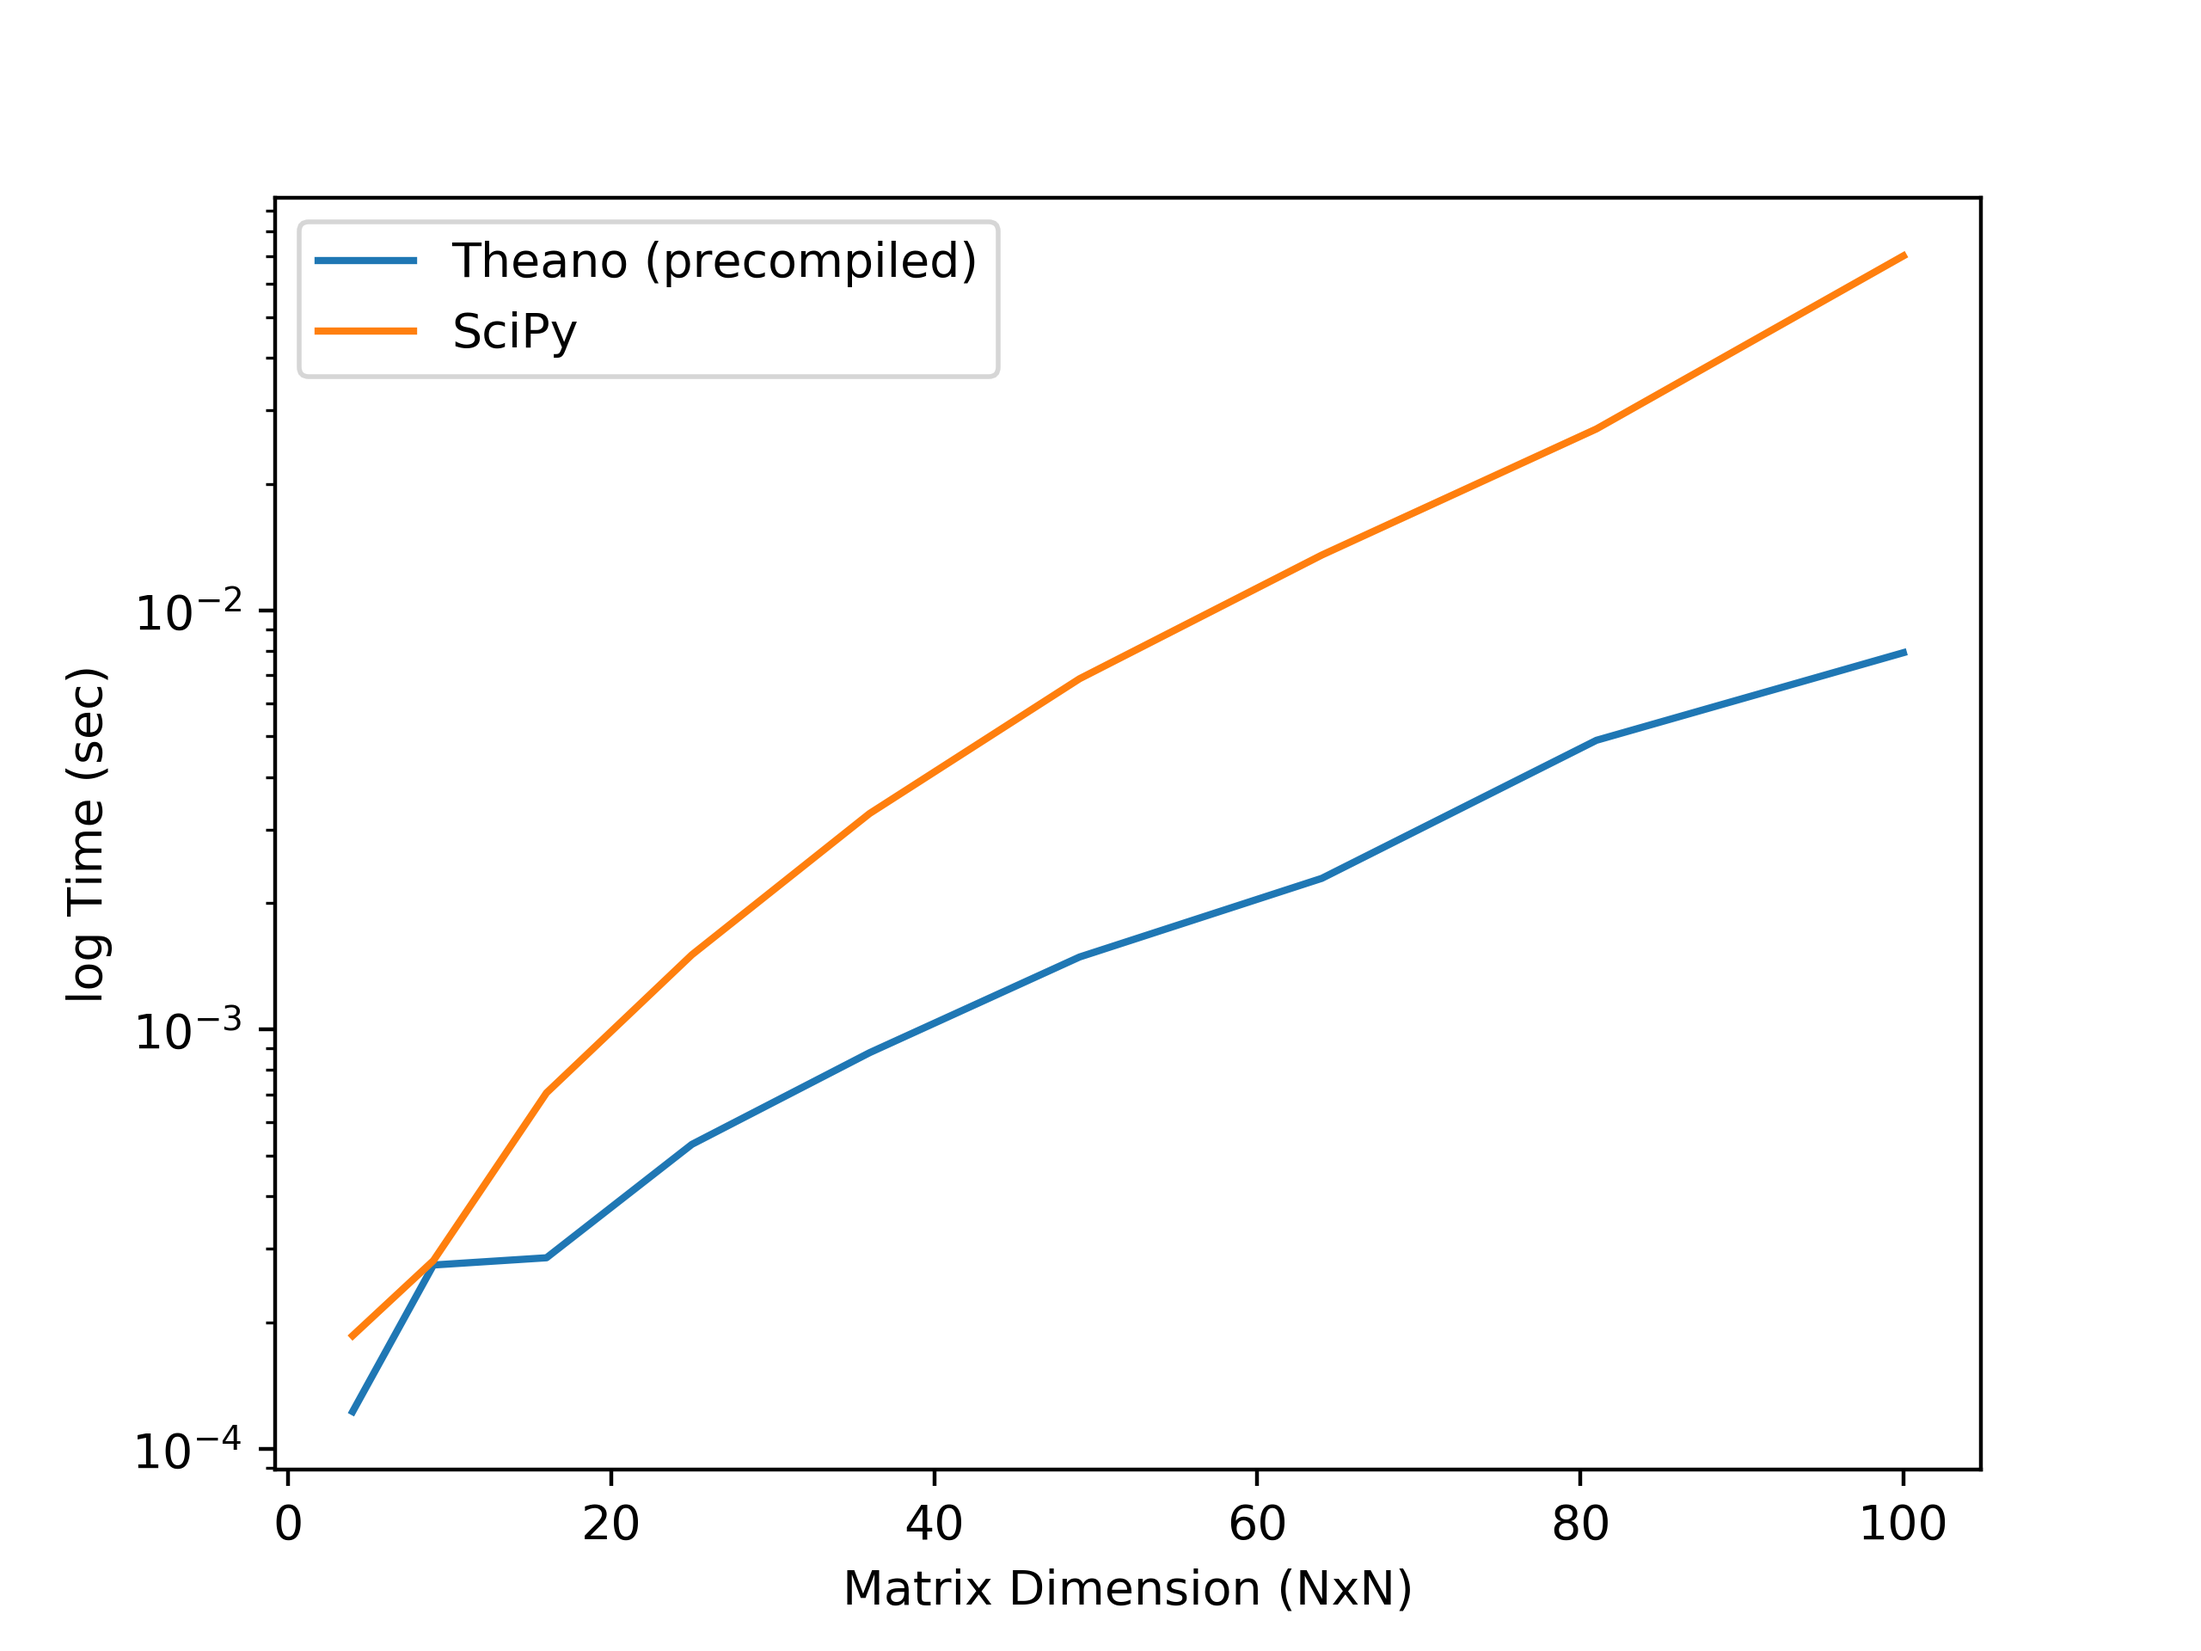
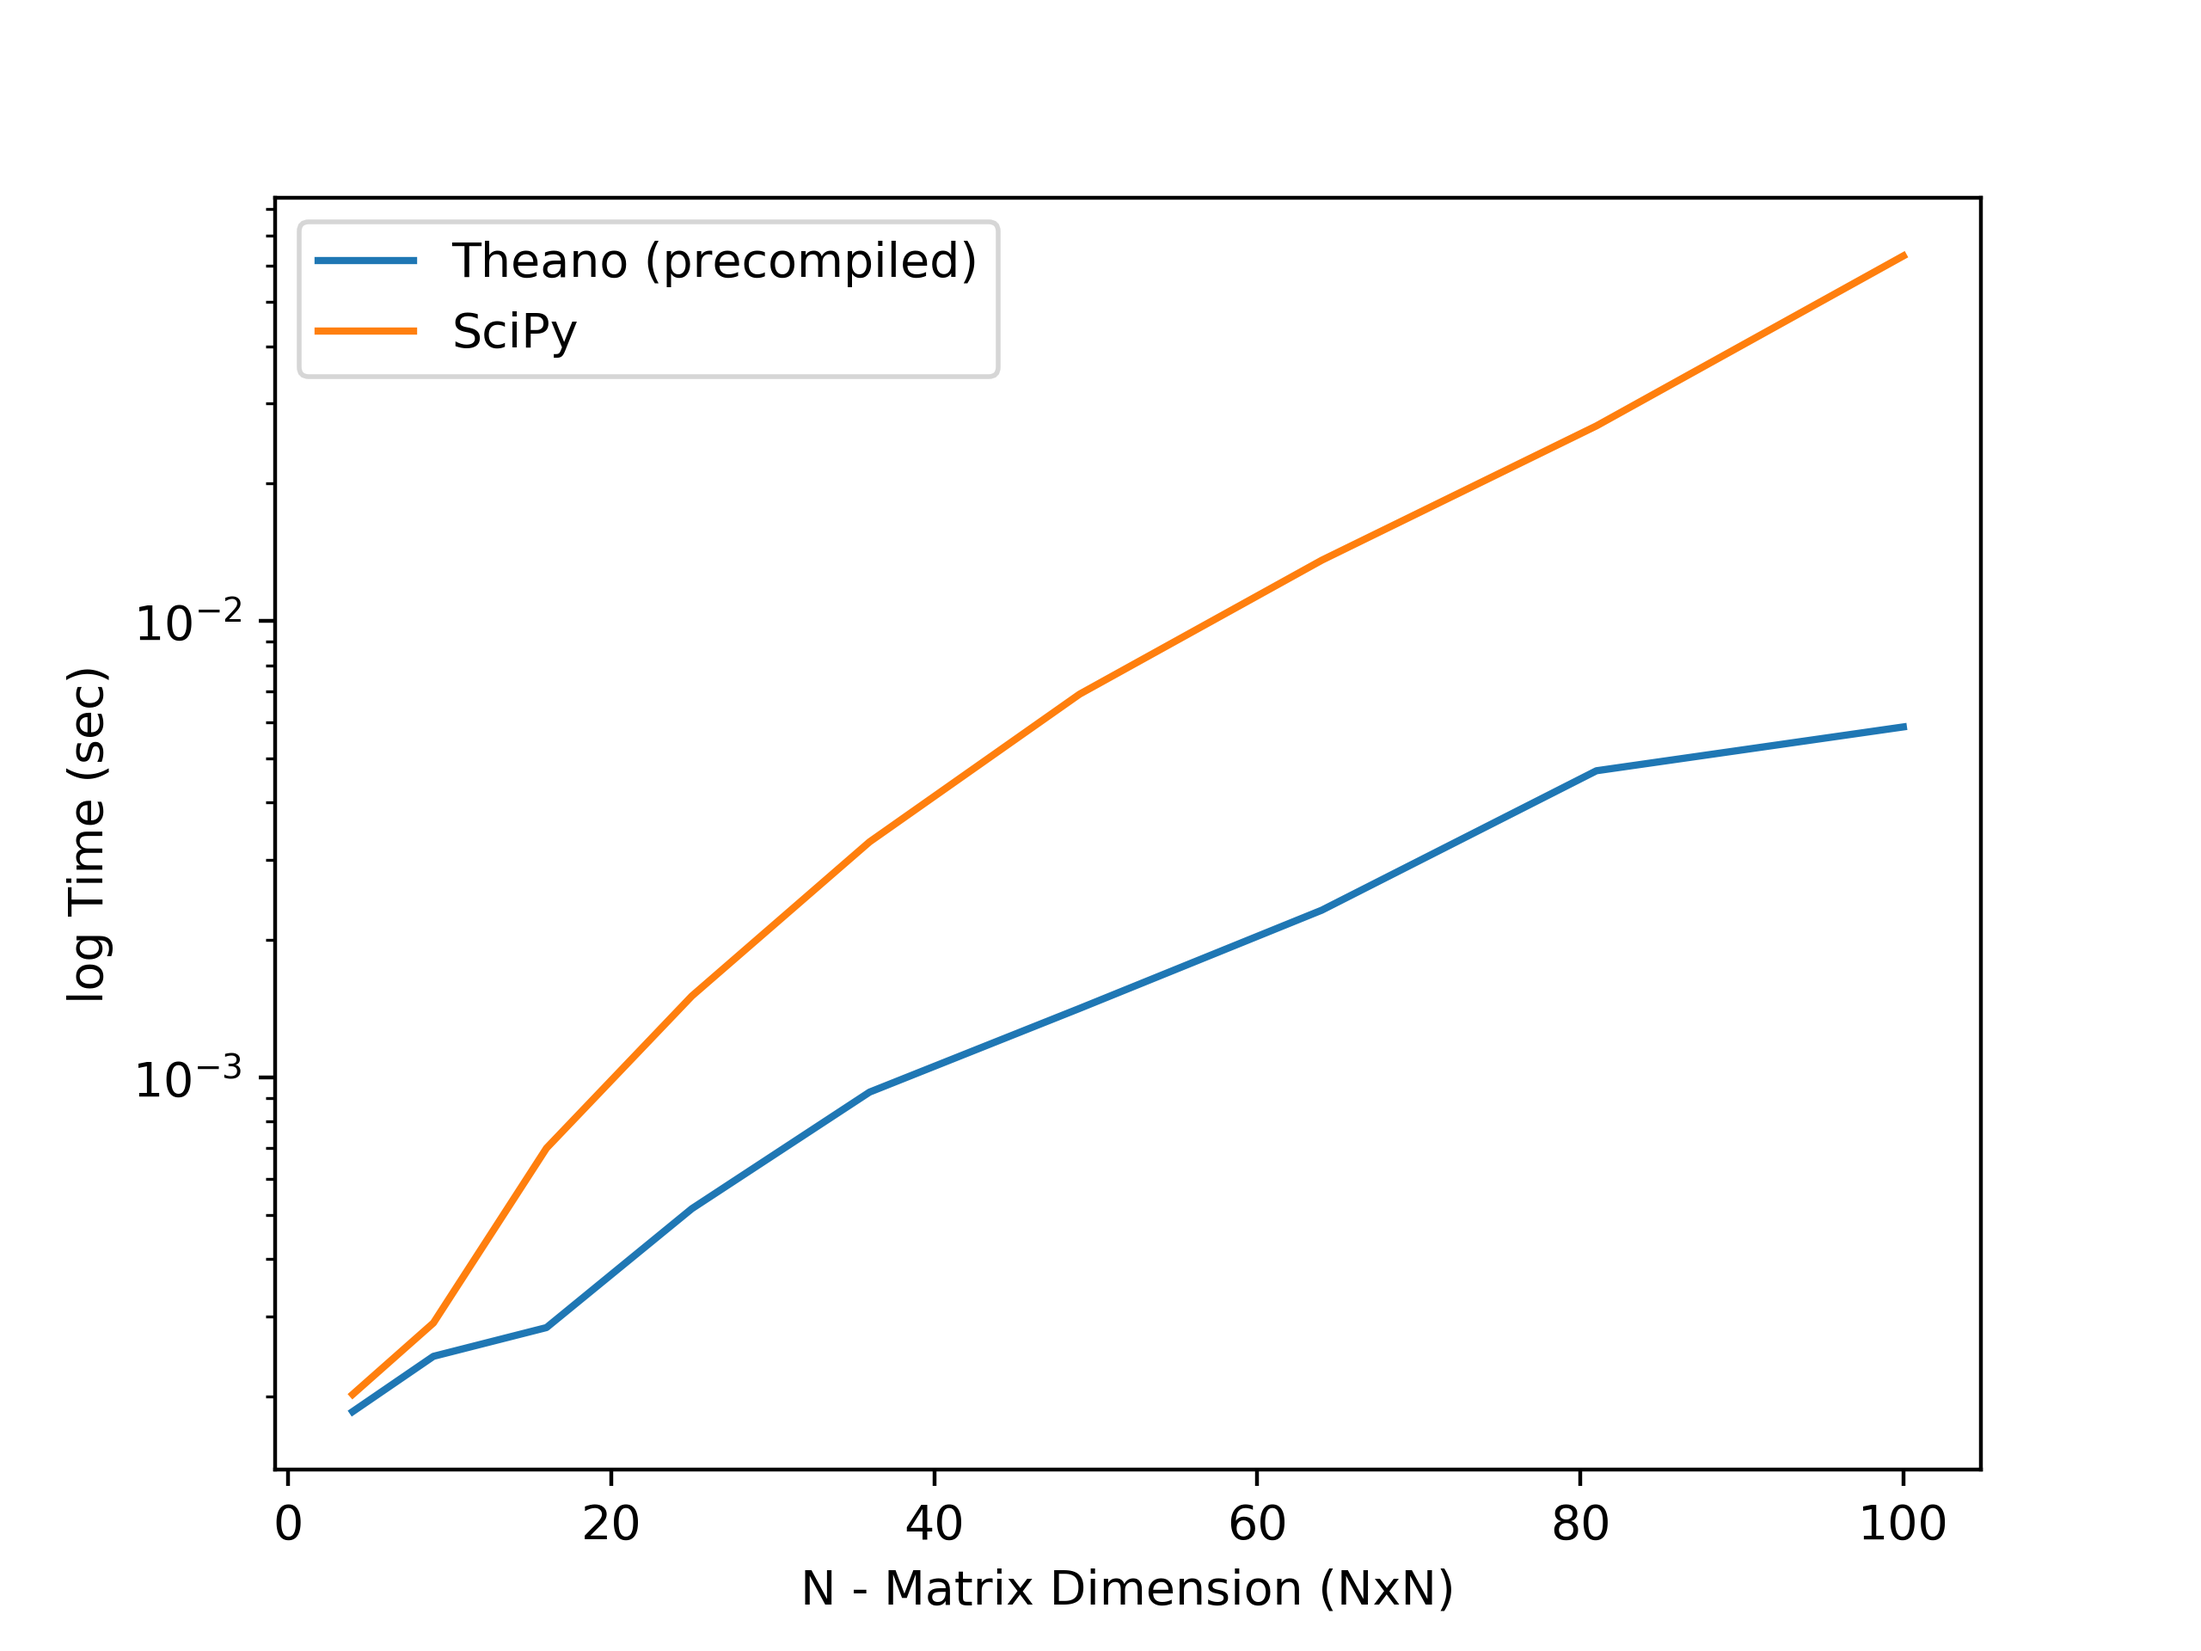
.

diff --git a/testTimeMatrixSqrt.py b/testTimeMatrixSqrt.py
@@ -38,7 +38,7 @@ ax = plt.subplot(111)
 plt.plot(result[:,0], result[:,1], label='Theano (precompiled)')
 plt.plot(result[:,0], result[:,2], label='SciPy')
 plt.yscale('log')
-plt.xlabel('Matrix Dimension (NxN)')
+plt.xlabel('N - Matrix Dimension (NxN)')
 plt.ylabel('log Time (sec)')
 plt.legend(loc='upper left')
 plt.savefig('Results/MatrixSquareRootTiming.png', dpi=400)
